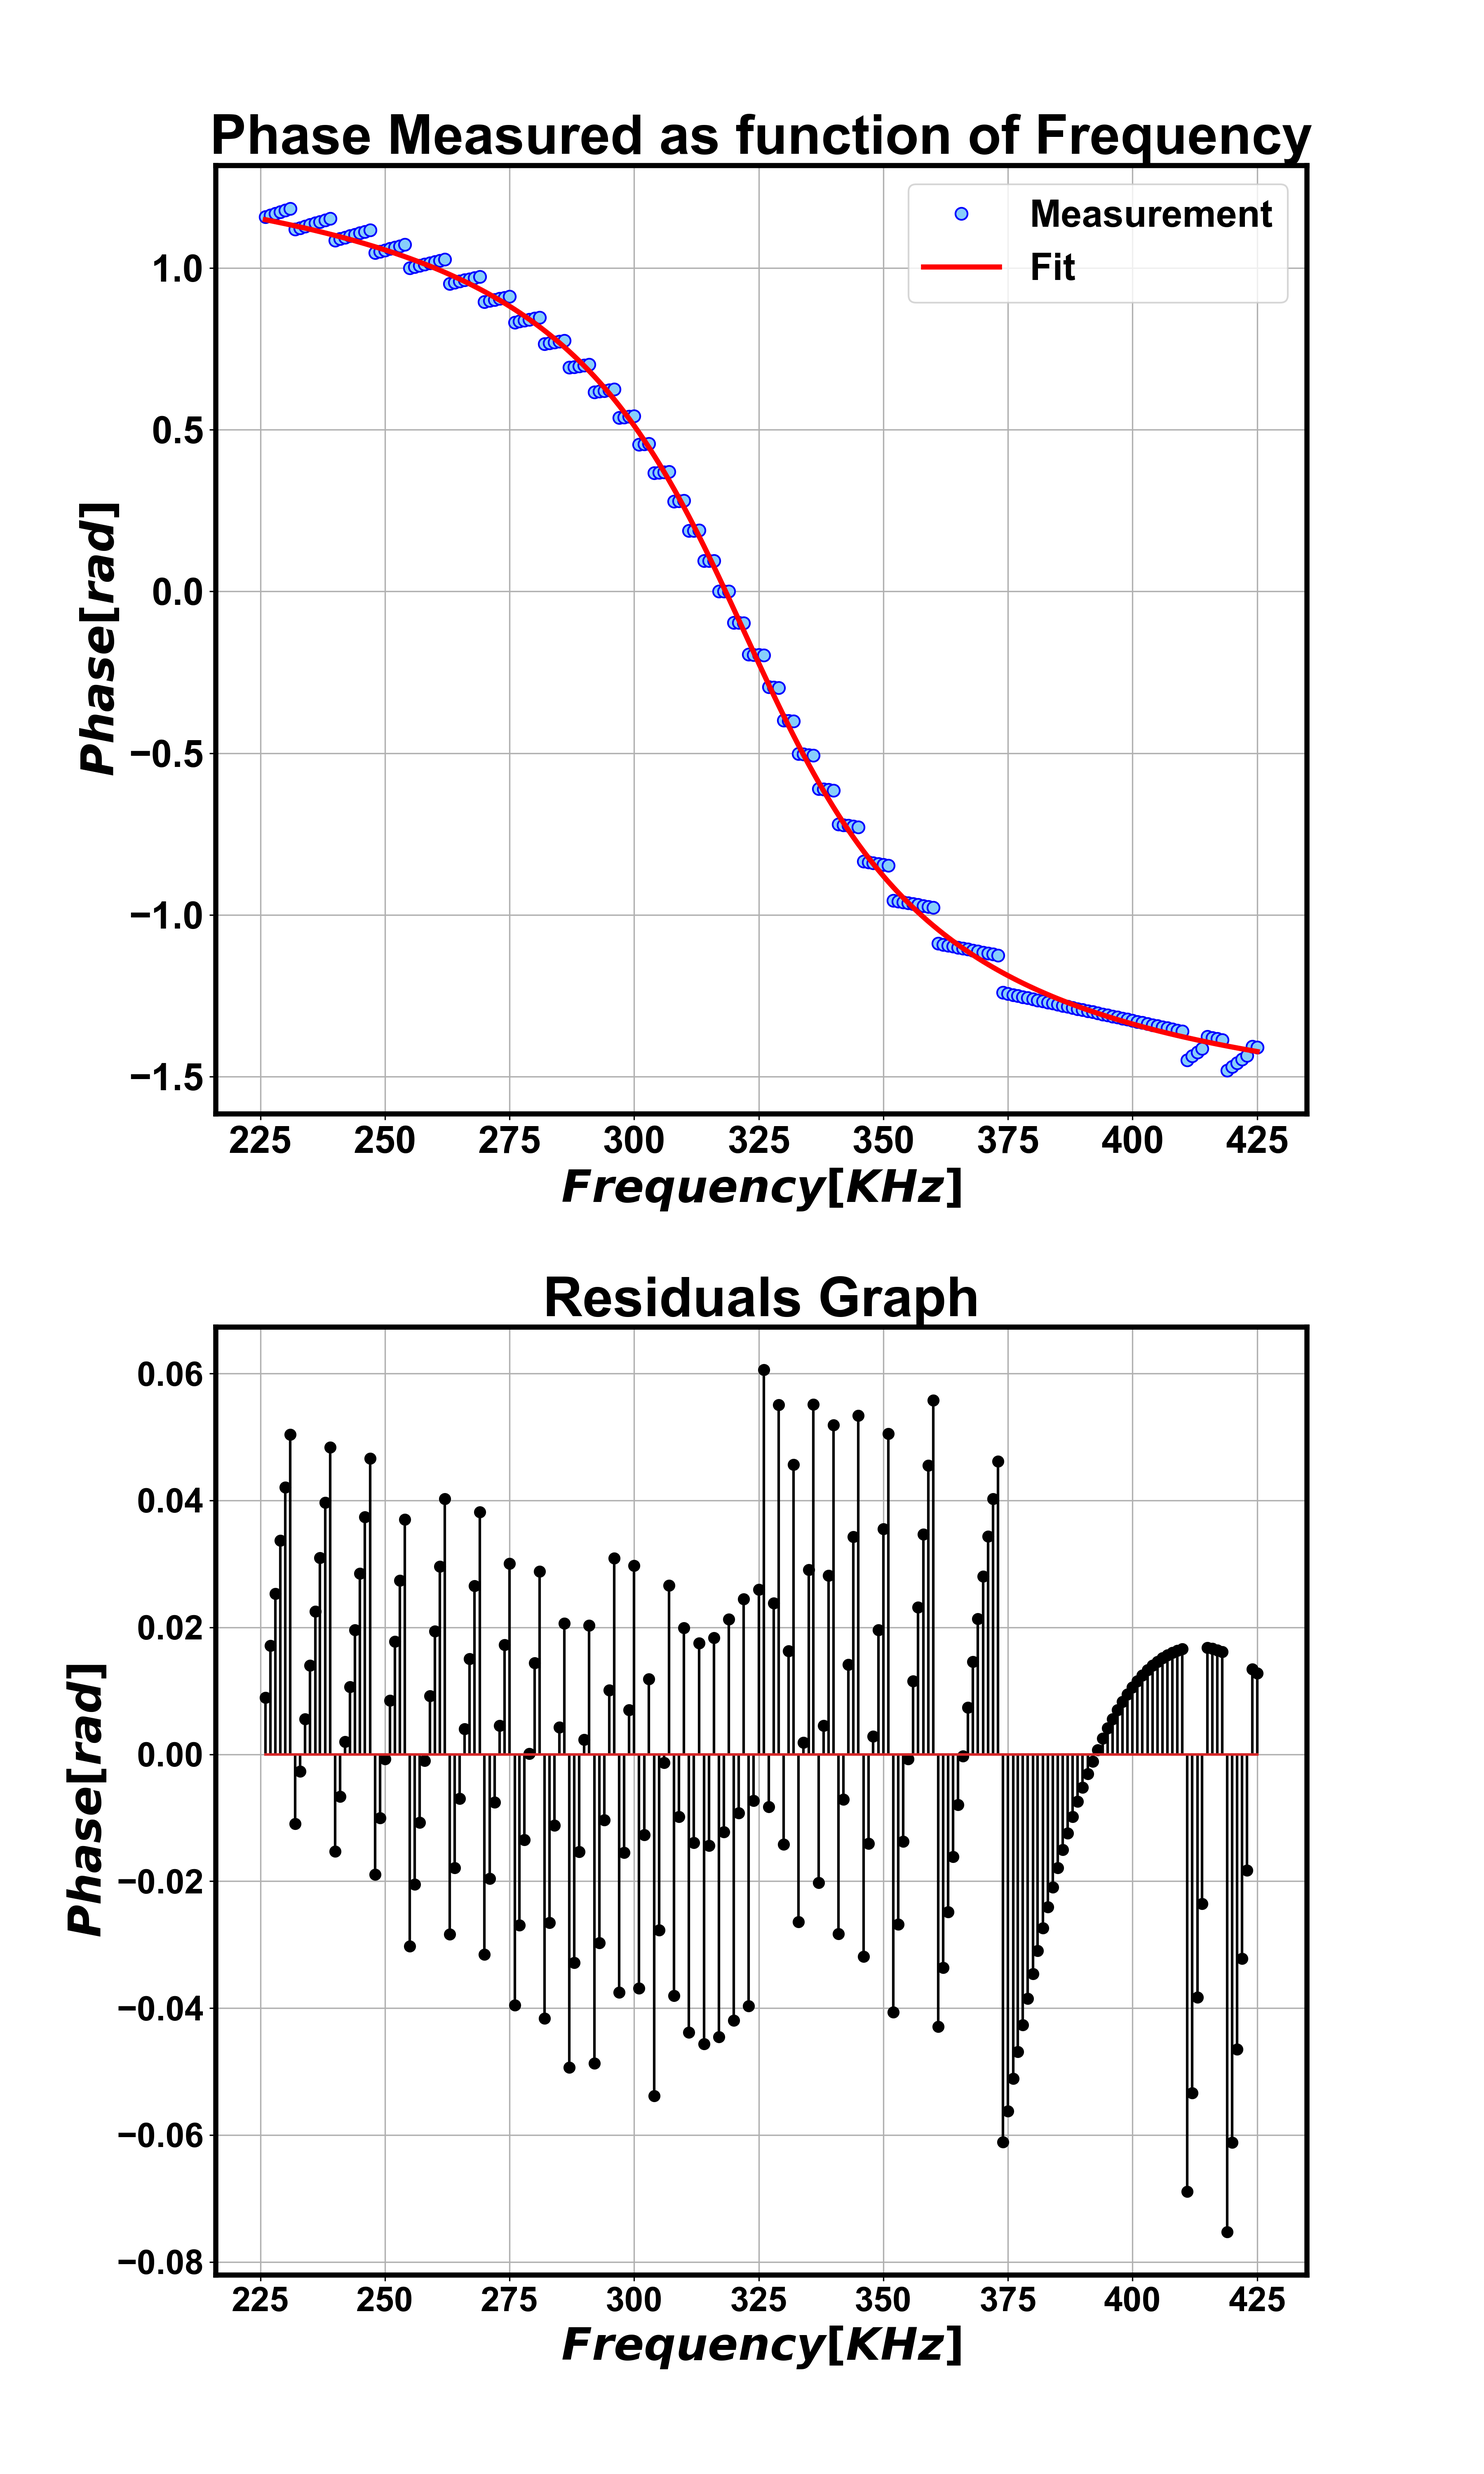
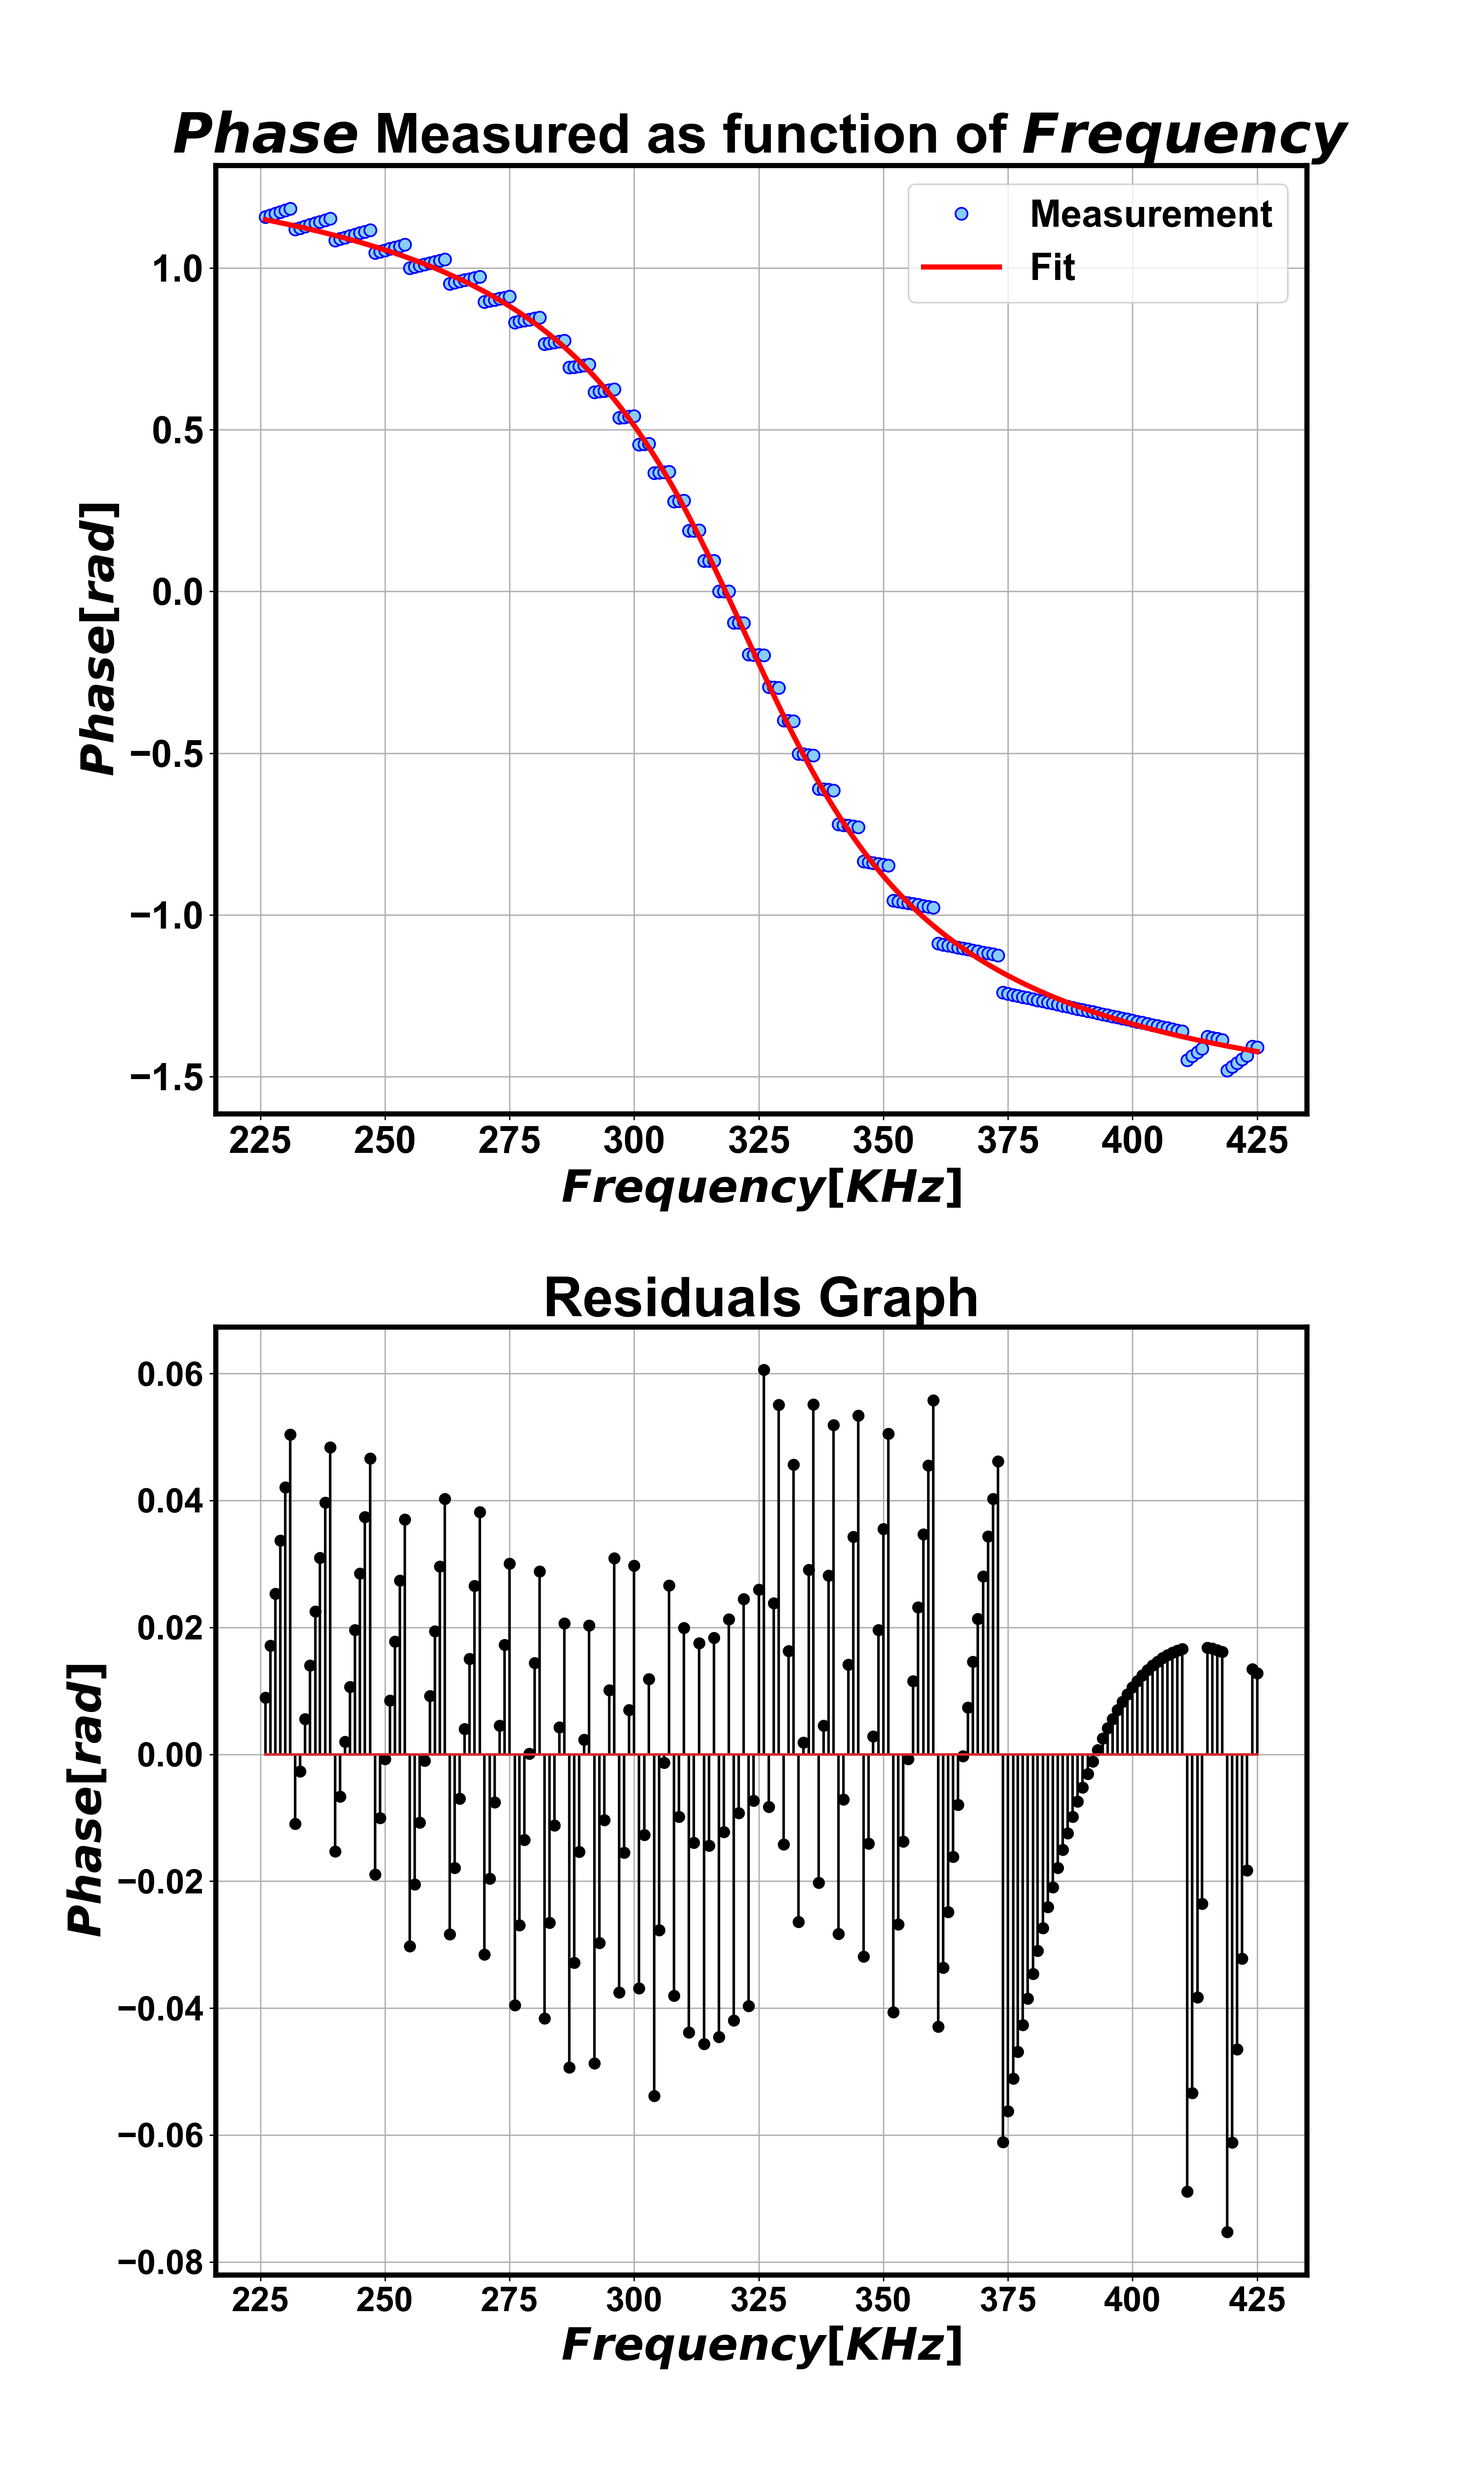
readme

Changed region(s): [[0.1244, 0.0312, 0.9022, 0.0623]]

diff --git a/models/coil_with_resistor.py b/models/coil_with_resistor.py
@@ -1,22 +1,9 @@
-import matplotlib as mpl
-import matplotlib.pyplot as plt
-import numpy as np
-from scipy.optimize import curve_fit
 from pandas import read_csv
-
-# Matlab Settings
-figure_width = 12
-figure_height = 20
-
-plt.rcParams["figure.figsize"] = (figure_width, figure_height)
-mpl.rcParams['font.family'] = 'Arial'
-mpl.rcParams['font.weight'] = 'bold'
-plt.rcParams['font.size'] = 22
-plt.rcParams['axes.linewidth'] = 3
-
+from plotter import plot_data
 
 # Data Settings
 data_path = './../data/coil_with_resistor_22kohm.csv'
+
 # unpack data
 data_frame = read_csv(data_path)
 
@@ -25,96 +12,4 @@ amplitude = data_frame["amplitude"]
 frequency = data_frame["frequency [Hz]"] / 10 ** 3
 frequency.name = "frequency [kHz]"
 
-print(frequency.name)
-print(type(frequency))
-
-# process data
-
-
-
-
-def show_phase_by_frequency():
-    # Fit
-    # def objective_phase_to_freq(x, a, b, c):
-    #     return -np.arctan((a * x - 1 / (b * x)) / (1.618)) + c
-    #
-    # popt, pcov = curve_fit(objective_phase_to_freq, frequency, phase, p0=[0.2769, 0.0003, 0], bounds=((-100, -np.inf, -np.inf), (np.inf, np.inf, np.inf)))
-    # fit = objective_phase_to_freq(frequency, popt[0], popt[1], popt[2])
-    # print_fit_data(objective_phase_to_freq, popt, pcov)
-    #
-    # residuals = phase - fit
-
-    """
-        Show Graphs
-    """
-    fig, ax = plt.subplots(2)
-    fig.tight_layout(pad=4.0)
-    ax[0].plot(frequency, phase, 'o', markersize=7, markeredgewidth=1, color='blue', markerfacecolor='lightskyblue', label='Measurement')
-    # ax[0].plot(frequency, fit, '-', color='red', label="Fit", linewidth=3)
-    ax[0].set_xlabel('$Frequency (kHz)$', fontsize=26)
-    ax[0].set_ylabel('$Phase (rad)$', fontsize=26)
-    ax[0].set_title("Phase Measured as function of Frequency", fontname="Arial", size=32, fontweight="bold")
-    ax[0].legend(loc='best')
-
-    # ax[1].stem(frequency, residuals, label='Residuals', linefmt='black')
-    ax[1].set_title("Residuals Graph", fontname="Arial", size=32, fontweight="bold")
-    ax[1].set_xlabel('$Frequency (kHz)$', fontsize=26)
-    ax[1].set_ylabel('$Phase (rad)$', fontsize=26)
-
-    plt.yticks(fontsize=20)
-    plt.xticks(fontsize=20)
-    ax[0].grid()
-    ax[1].grid()
-
-    plt.show()
-    # plt.savefig("./../graphs/coil_resistor_phase_to_freq.png", dpi=300)
-
-
-def show_amplitude_by_frequency():
-
-    # def objective_amplitude_to_freq(x, a, b, c):
-    #     return 2 / (np.sqrt(
-    #         c ** 2 + (a * x - 1 / (b * x)) ** 2
-    #     ))
-    #
-    # popt, pcov = curve_fit(objective_amplitude_to_freq, frequency, amplitude, p0=[0.008, 0.001, 0.8])
-    # fit = objective_amplitude_to_freq(frequency, popt[0], popt[1], popt[2])
-    # print_fit_data(objective_amplitude_to_freq, popt, pcov)
-    #
-    # residuals = amplitude - fit
-
-    """
-        Show Graphs
-    """
-    fig, ax = plt.subplots(2)
-    fig.tight_layout(pad=4.0)
-
-    ax[0].plot(frequency, amplitude, 'o', markersize=7, markeredgewidth=1, color='blue', markerfacecolor='lightskyblue', label='Measurement')
-    # ax[0].plot(frequency, fit, '-', color='red', label="Fit", linewidth=3)
-    ax[0].set_xlabel('$Frequency (kHz)$', fontsize=26)
-    ax[0].set_ylabel('$Amplitude$', fontsize=26)
-    ax[0].set_title("Amplitude Measured as function of Frequency", fontname="Arial", size=32, fontweight="bold")
-    ax[0].legend(loc='best')
-
-    # ax[1].stem(frequency, residuals, label='Residuals', linefmt='black')
-    ax[1].set_title("Residuals Graph", fontname="Arial", size=32, fontweight="bold")
-    ax[1].set_xlabel('$Frequency (kHz)$', fontsize=26)
-    ax[1].set_ylabel('$Amplitude$', fontsize=26)
-
-    plt.yticks(fontsize=20)
-    plt.xticks(fontsize=20)
-    ax[0].grid()
-    ax[1].grid()
-
-    plt.show()
-
-    # plt.savefig("./../graphs/coil_resistor_amplitude_to_freq.png", dpi=300)
-
-
-def print_fit_data(objective, popt, pcov):
-    perr = np.sqrt(np.diag(pcov))
-    print(f"printing [{objective.__name__}] fitting values")
-    for i, var in enumerate(objective.__code__.co_varnames[1:]):
-        print(f"parameter {var} = {popt[i]}, with std={perr[i]}")
-
-show_phase_by_frequency()
+plot_data(frequency, amplitude, graph_dir_path="./../graphs", experiment_name="coil with resistor")

diff --git a/plotter.py b/plotter.py
@@ -6,7 +6,6 @@ import matplotlib as mpl
 import matplotlib.pyplot as plt
 import numpy as np
 
-
 FIGURE_WIDTH = 12
 FIGURE_HEIGHT = 12
 DOUBLE_FIGURE_HEIGHT = 20
@@ -20,6 +19,7 @@ mpl.rcParams['font.family'] = FONT
 mpl.rcParams['font.weight'] = FONT_WEIGHT
 plt.rcParams['font.size'] = FONT_SIZE
 plt.rcParams['axes.linewidth'] = LINE_WIDTH
+
 
 def print_fit_data(objective, popt, pcov):
     perr = np.sqrt(np.diag(pcov))
@@ -39,12 +39,19 @@ def plot_data(x_data: pd.DataFrame,
               residuals: bool = True,
               graph_dir_path: str = None,
               experiment_name: str = ""):
-
     # graph parameters
-    x_data_name = x_data.name.split()[0]
-    x_data_units = x_data.name.split()[1]
-    y_data_name = y_data.name.split()[0]
-    y_data_units = y_data.name.split()[1]
+    try:
+        x_data_name = x_data.name.split()[0]
+        x_data_units = x_data.name.split()[1]
+    except:
+        x_data_name = x_data.name
+        x_data_units = ""
+    try:
+        y_data_name = y_data.name.split()[0]
+        y_data_units = y_data.name.split()[1]
+    except:
+        y_data_name = y_data.name
+        y_data_units = ""
 
     # fit
     if fit_function is not None:
@@ -70,12 +77,13 @@ def plot_data(x_data: pd.DataFrame,
 
     fig.tight_layout(pad=4.0)
     graph_ax.plot(x_data, y_data, 'o', markersize=7, markeredgewidth=1, color='blue', markerfacecolor='lightskyblue',
-               label='Measurement')
+                  label='Measurement')
     if fit_function is not None:
         graph_ax.plot(x_data, fit, '-', color='red', label="Fit", linewidth=3)
     graph_ax.set_xlabel(f'${x_data_name} {x_data_units}$', fontsize=26)
     graph_ax.set_ylabel(f'${y_data_name} {y_data_units}$', fontsize=26)
-    graph_ax.set_title(f"${y_data_name}$ Measured as function of ${x_data_name}$", fontname="Arial", size=32, fontweight="bold")
+    graph_ax.set_title(f"${y_data_name}$ Measured as function of ${x_data_name}$", fontname="Arial", size=32,
+                       fontweight="bold")
     graph_ax.legend(loc='best')
     graph_ax.grid()
 

diff --git a/README.md b/README.md
@@ -45,7 +45,14 @@ Now you can use `plot_data` to get the desired graph
 plot_data(frequency, phase, phase_to_freq_fit, starting_points=phase_starting_point, bounds=phase_starting_bounds, residuals=True, save=False)
 ```
 The fitting parameters will be printed with std values
-And you will get the following graph
+
+| parameter |   value   |    std    |
+|:---------:|:---------:|:---------:|
+|     a     |  0.0271   | 0.000144  |
+|     b     | 0.0003524 | 1.866e-06 |
+|     c     |  -0.1745  | 0.003361  |
+
+and you will get the following graph
 
 ![alt text](https://github.com/MajoRoth/rlc_lab/blob/main/graphs/graph%3A%20Phase%20%5Brad%5D%20as%20function%20of%20Frequency%20%5BKHz%5D.png "Graph")
 
